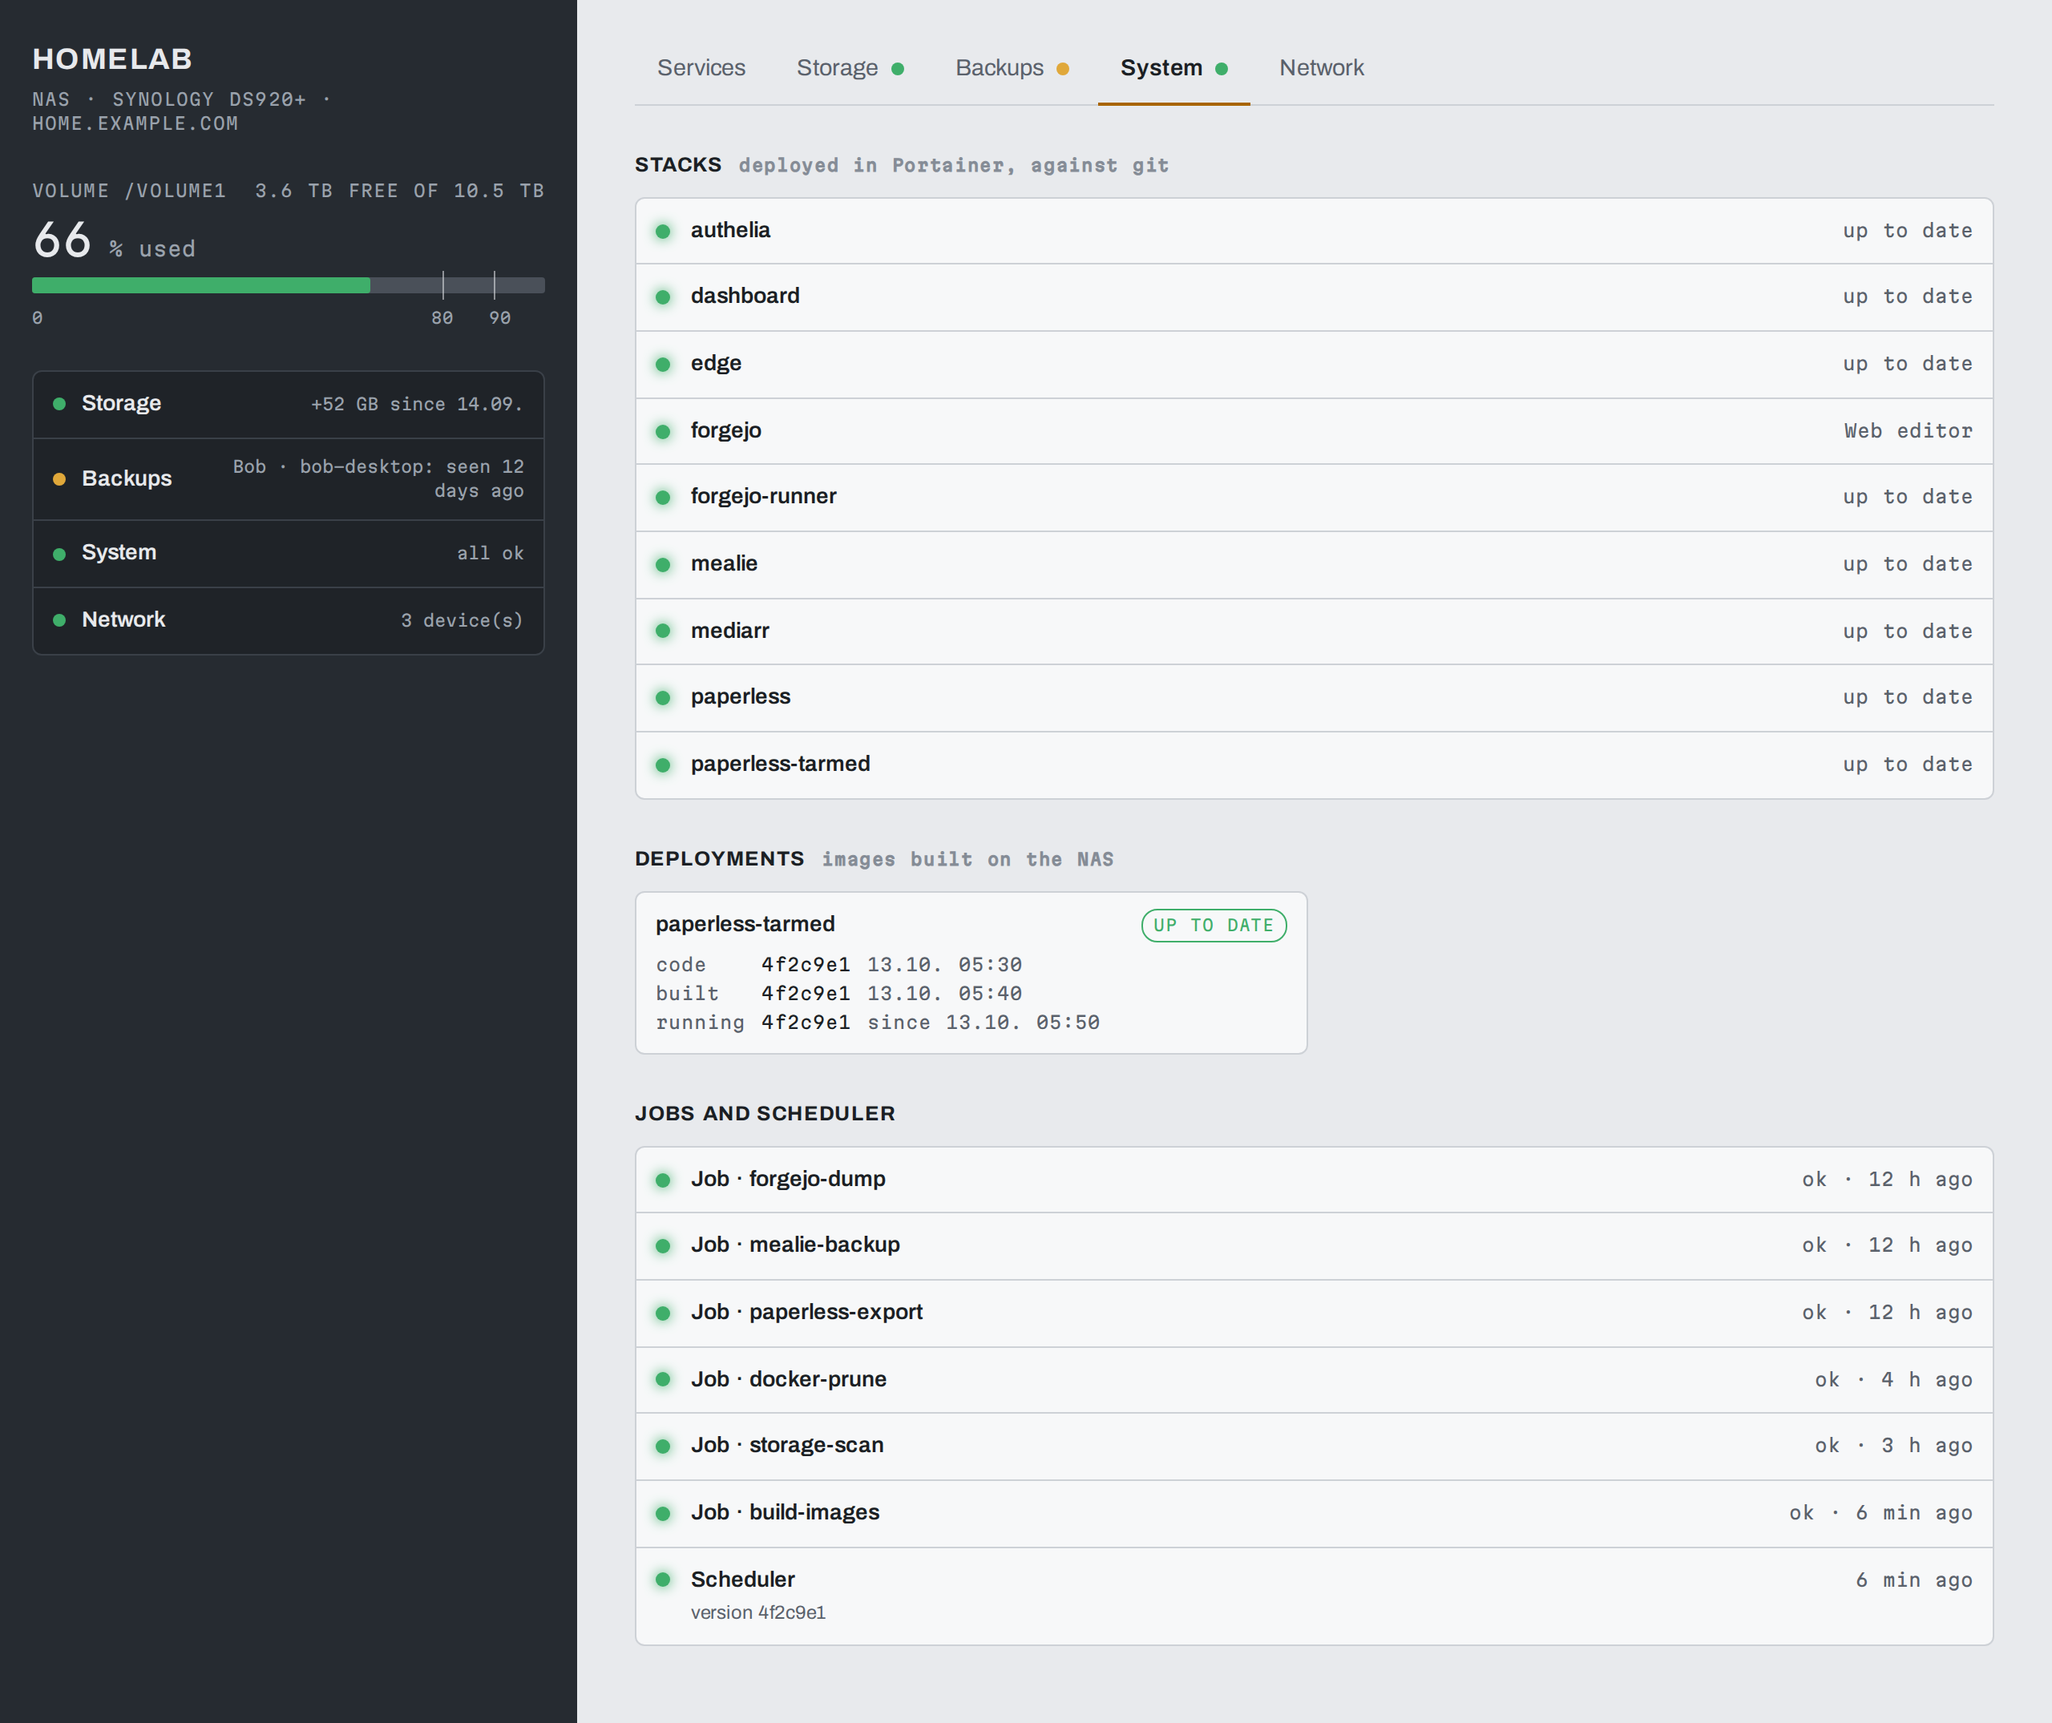
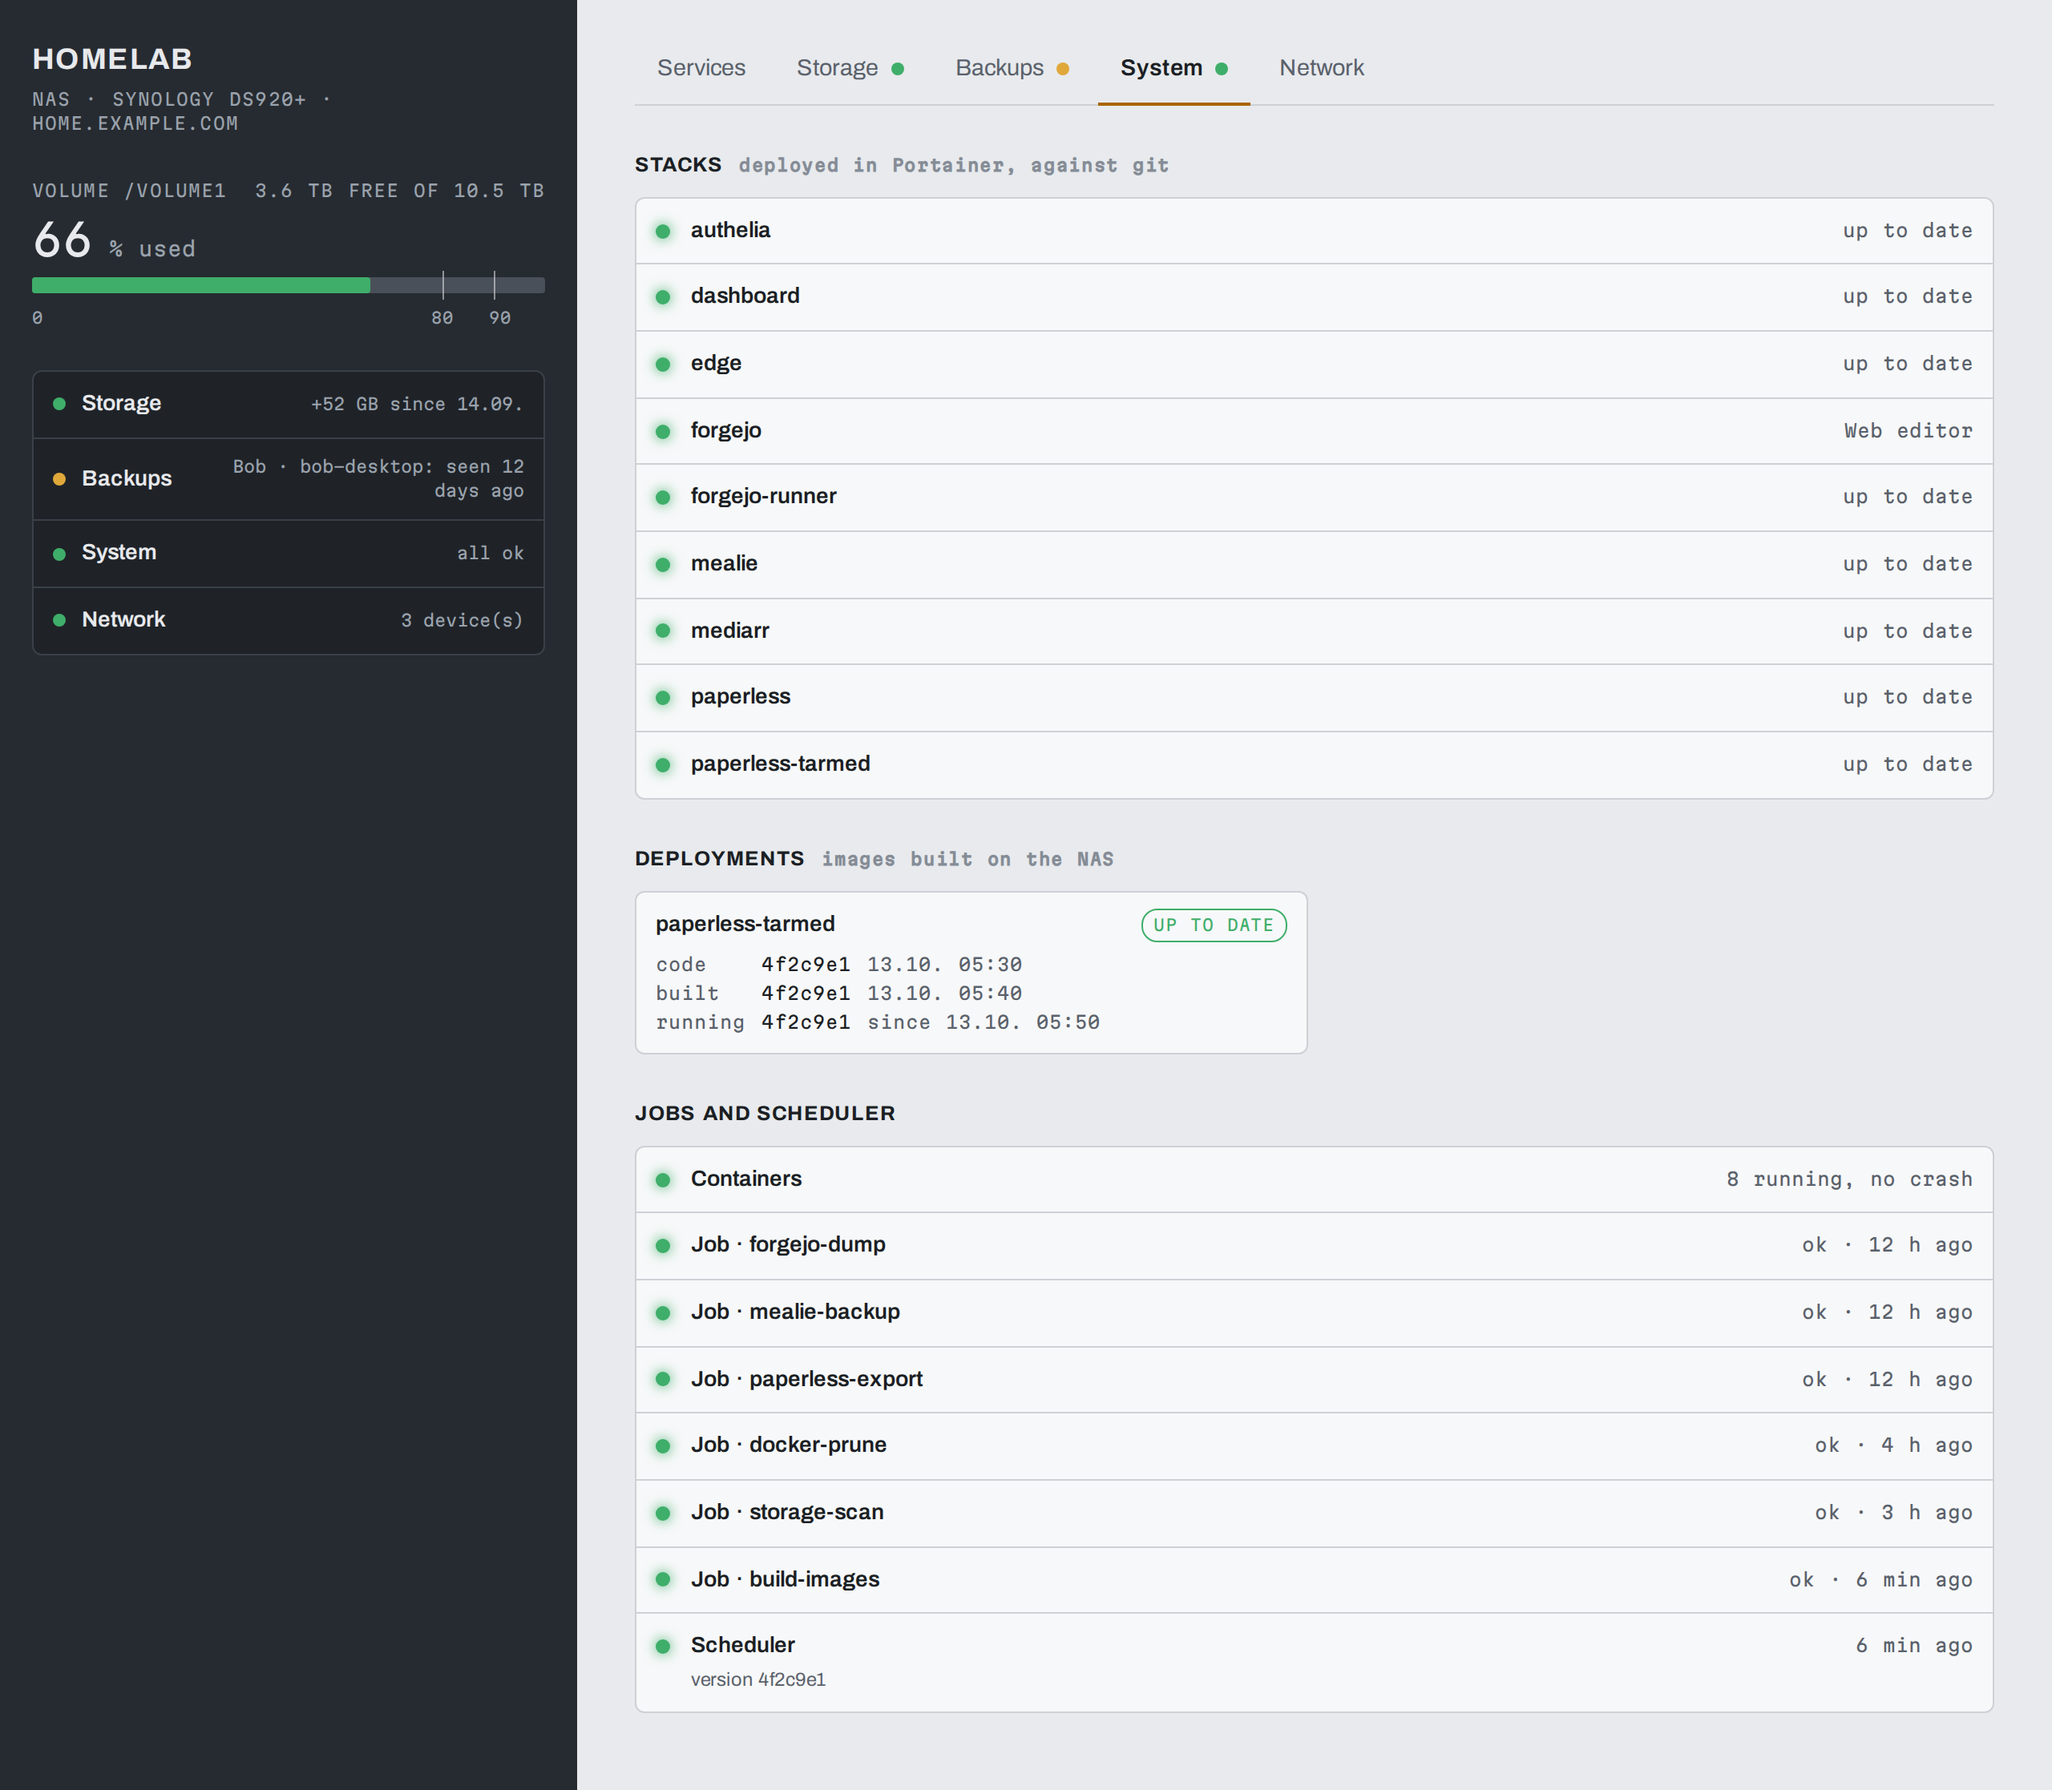
7 changes, 8 dependency updates
- Test fixture: mark the made-up UUID for gitleaks
- publish-github.sh: works with gitleaks older than 8.19
- publish-github.sh: tell 'gitleaks could not run' from a finding
- GitHub gets snapshots: tools/publish-github.sh
- Renovate: commit as Renovate Bot, not as the token's owner
- Alerts for crashed containers, so DSM's notice can stay off
- Notifications: NAS alerts, Paperless bills, MikroTik events

Published-from: bd1559bc234db3301f92ca41e360d80581fa7670

diff --git a/stacks/dashboard/html/index.html b/stacks/dashboard/html/index.html
@@ -1421,6 +1421,30 @@
             note(d.level, im.stack + ': ' + d.state);
         });
         if (deploys.children.length) { document.querySelector('[data-deploys]').hidden = false; }
+        // Containers: only the ones in trouble get a row (scripts/lib/containers.sh;
+        // same rules as scripts/alerts.sh, which pushes them to ntfy).
+        if (st.containers) {
+            var troubled = 0;
+            st.containers.forEach(function (c) {
+                var lvl = 'ok', what = '';
+                if (c.state === 'restarting') { lvl = 'bad'; what = 'restart-looping (exit ' + c.exit_code + ')'; }
+                else if ((c.state === 'exited' || c.state === 'dead') && (c.oom || [0, 137, 143].indexOf(c.exit_code) < 0)) {
+                    lvl = 'bad'; what = c.oom ? 'killed: out of memory' : 'crashed (exit ' + c.exit_code + ')';
+                } else if (c.health === 'unhealthy') { lvl = 'warn'; what = 'unhealthy'; }
+                else if (c.state === 'running' && c.restarts > 0 && now - (c.started || 0) < 1200) {
+                    lvl = 'warn'; what = 'restarted by docker after a crash';
+                }
+                if (lvl === 'ok') { return; }
+                troubled++;
+                led(sList, lvl, 'Container · ' + c.name, what, c.project ? 'stack ' + c.project : '');
+                sLevels.push(lvl);
+                note(lvl, c.name + ': ' + what);
+            });
+            if (!troubled) {
+                var up = st.containers.filter(function (c) { return c.state === 'running'; }).length;
+                led(sList, 'ok', 'Containers', up + ' running, no crash', '');
+            }
+        }
         (st.jobs || []).forEach(function (j) {
             var s = sources[j.name];
             led(sList, s.level, 'Job · ' + j.name, s.value, s.detail);

diff --git a/tools/dashboard-demo/screenshots.py b/tools/dashboard-demo/screenshots.py
@@ -110,6 +110,14 @@ def status():
              "built": {"commit": commit, "at": at(days=1, hours=2, minutes=50), "from_current_code": True},
              "running": {"state": "running", "commit": commit, "started": at(days=1, hours=2, minutes=40), "same_image": True}},
         ],
+        "containers": [
+            {"name": n, "project": p, "state": "running", "health": h, "exit_code": 0, "oom": False,
+             "restarts": 0, "started": at(days=1, hours=2)}
+            for n, p, h in [("edge-caddy-1", "edge", None), ("authelia-authelia-1", "authelia", "healthy"),
+                            ("mediarr-sonarr-1", "mediarr", None), ("mediarr-jellyfin-1", "mediarr", "healthy"),
+                            ("paperless-webserver-1", "paperless", "healthy"), ("ntfy-ntfy-1", "ntfy", "healthy"),
+                            ("dashboard-dashboard-1", "dashboard", "healthy"), ("portainer", "", None)]
+        ],
         "scheduler": {"sha": commit, "pull_ok": True, "pull_error": ""},
     }
 

diff --git a/docs/guides/11-notifications.md b/docs/guides/11-notifications.md
@@ -202,13 +202,14 @@ Every 15 minutes, right after refreshing the dashboard's `status.json`, the
 scheduler runs `scripts/alerts.sh`, which pushes to `homelab` what the
 dashboard would show amber or red, using the same thresholds:
 
-| Item                                    | Amber                       | Red                 |
-| --------------------------------------- | --------------------------- | ------------------- |
-| a scheduled job                         |                             | its last run failed |
-| a phone or computer in `uploaders.conf` | silent half its max days    | silent its max days |
-| the volume                              | 80 % used                   | 90 % used           |
-| the scheduler's git clone               | cannot update               |                     |
-| a day's growth (`storage.json`)         | more than `ALERT_GROWTH_GB` |                     |
+| Item                                                                | Amber                                                              | Red                                                                                                |
+| ------------------------------------------------------------------- | ------------------------------------------------------------------ | -------------------------------------------------------------------------------------------------- |
+| a scheduled job                                                     |                                                                    | its last run failed                                                                                |
+| a container (anything with a restart policy: the stacks, Portainer) | unhealthy, or restarted by docker after a crash in the last 20 min | restart-looping, or exited with an error or out of memory (a stop, exit 0/137/143, is not a crash) |
+| a phone or computer in `uploaders.conf`                             | silent half its max days                                           | silent its max days                                                                                |
+| the volume                                                          | 80 % used                                                          | 90 % used                                                                                          |
+| the scheduler's git clone                                           | cannot update                                                      |                                                                                                    |
+| a day's growth (`storage.json`)                                     | more than `ALERT_GROWTH_GB`                                        |                                                                                                    |
 
 It pushes on changes only: once when an item turns amber, again if it turns
 red, and a quiet "ok again" when it recovers. Nothing to set up beyond the

diff --git a/tools/README.md b/tools/README.md
@@ -7,6 +7,7 @@ Run from the laptop, not the NAS, against the NAS shares mounted with cifs
 | ------------------------------- | ------------------------------------------------------------------------------------------------------------------------------------------------------------------------------------------------- |
 | `duplicates.sh`                 | finds identical files inside one folder and deletes the extra copies, keeping one each                                                                                                            |
 | `dashboard-demo/screenshots.sh` | regenerates `docs/images/dashboard-*.png`: the dashboard with made-up data, in Playwright's Docker image                                                                                          |
+| `publish-github.sh`             | publishes Forgejo's `main` to the public GitHub copy as one snapshot commit (no bot commits, no history); checks real values and secrets first. `-n` shows what it would do                       |
 | `mikrotik/ntfy.rsc`             | RouterOS 7 scripts pushing to ntfy: a new device on the LAN, internet down/back, WireGuard peers connecting ([guide 11](../docs/guides/11-notifications.md)). Generated by `mikrotik/ntfy-rsc.py` |
 
 ## duplicates.sh

diff --git a/stacks/dashboard/README.md b/stacks/dashboard/README.md
@@ -111,6 +111,12 @@ The System tab lists every Portainer stack:
 - **stopped**
 - **Web editor**: not deployed from git, so there is nothing to compare
 
+Below, under Jobs and scheduler, **Containers** (`scripts/lib/containers.sh`):
+every container with a restart policy. One "N running, no crash" row while all
+are fine; otherwise a row per container that is restart-looping, crashed (an
+exit code other than 0, 137, 143, or out of memory), unhealthy, or restarted
+by docker in the last 20 minutes. `scripts/alerts.sh` pushes the same to ntfy.
+
 `scripts/lib/stacks.sh` asks Portainer's API (`PORTAINER_URL`, default `https://127.0.0.1:9443`) with `PORTAINER_TOKEN` from `jobs.env`. Create the token under Portainer → My account → Access tokens. It has its user's rights, so `jobs.env` must stay root-only. Only name, status, compose path and deployed commit are kept: the API also returns each stack's environment, passwords included. JSON is read with `jq` from the `ghcr.io/jqlang/jq` image (DSM has none). An image tag that moves without a git change (`latest`) is not seen.
 
 ## Gotchas

diff --git a/docs/operations.md b/docs/operations.md
@@ -12,8 +12,12 @@ conventions a new stack follows. Setting things up is in the
   Actions **Secrets**.
 - **No real values in tracked files.** Use the placeholders below; real values
   live in the gitignored `CLAUDE.local.md` and
-  `PRIVATE-real-values-do-not-publish/`. The tree is publishable as is; the
-  history was squashed before publishing, and stays clean.
+  `PRIVATE-real-values-do-not-publish/`. The tree is publishable as is.
+- **GitHub gets snapshots, not the history.** Forgejo holds the working
+  history, Renovate's commits included; `tools/publish-github.sh` adds one
+  commit per publish to the public copy, authored by the public identity,
+  after the real-values check and gitleaks pass. Never `git push` to GitHub
+  directly: it would publish Renovate's and the merges' commits.
 - **Images are pinned** to exact tags. Renovate runs daily: minor and patch
   updates merge themselves once CI passes; majors (and Forgejo, Portainer)
   wait for approval on its Dependency Dashboard, and ntfy tells you
